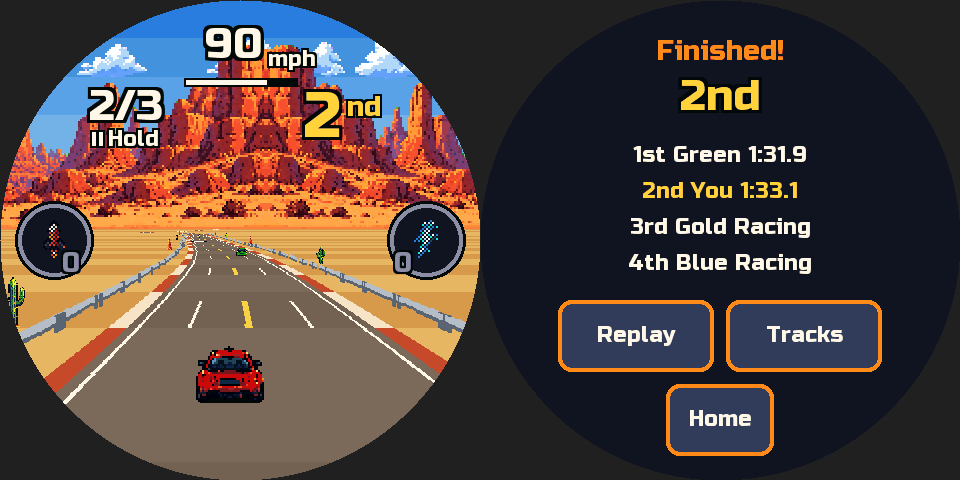
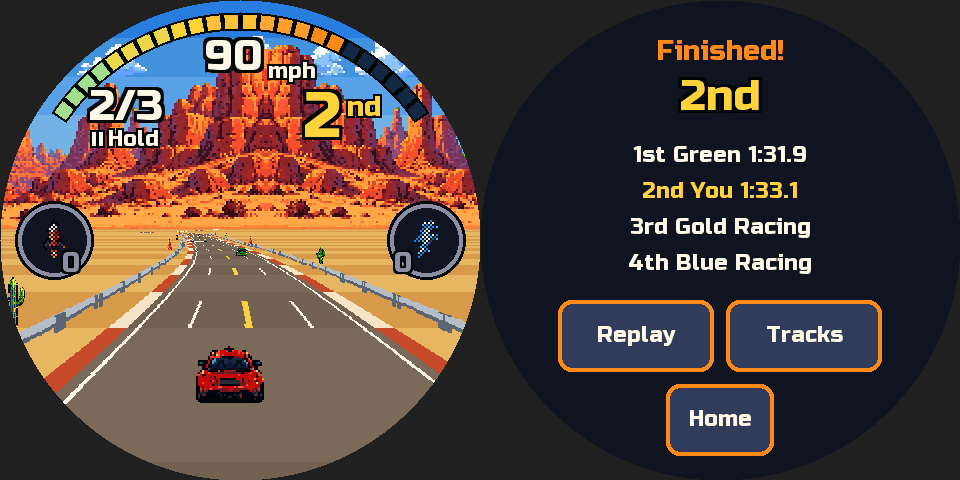
feat(porthole): Rally speed as an arc along the top rim
24 slots light left to right (green to gold to orange to top speed, cyan in
the boost range), red-orange while a trap holds the car back; mph digits
sit under the arc. Each arc pixel slot is computed once into heap scratch.

diff --git a/apps/porthole/games/racing/render.cpp b/apps/porthole/games/racing/render.cpp
@@ -18,6 +18,7 @@ namespace {
 // Rally's own interface colors: a navy-black plate, white and gold numerals with a black outline, a race-orange accent.
 constexpr uint32_t INK = 0x141623, PLATE = 0x1F2438, PLATE_HI = 0x343C5C, RIM = 0x07080C, CREAM = 0xFFF6E4;
 constexpr uint32_t DIM = 0x8A8FA3, ORANGE = 0xFF8A1E, CYAN = 0x45E3FF, GOLD = 0xFFD23A, GREEN = 0x7BE07B;
+constexpr uint32_t HELD = 0xFF5A36;   // the speed held back by a trap
 constexpr uint32_t RING = 0xDCE2EC, STEEL = 0xB4BCC6, STEEL_DARK = 0x5C6470;
 constexpr float MPH_AT_TOP = 90;
 constexpr int HORIZON = 228, CAR_ROW = 402, CAR_DEPTH = CAR_ROW - HORIZON, PIC_SCALE = 2;
@@ -123,13 +124,20 @@ void skyline(int track, int bottom, int offset) {
 // at the first race frame, never at static init: internal RAM stays free for the wireless update's screen and TLS.
 struct Thing { float z; const pic::Pic* p; float x, lift = 0; bool shadow = false; float size = 1; };   // size: drawn bigger than life
 constexpr int MAX_THINGS = 48;
+// The speed arc hugs the top rim: SEGMENTS slots across ARC_DEG either side of 12 o'clock, between ARC_IN and ARC_OUT.
+// Which slot each of its pixels belongs to (or its dark rim) is worked out once, so a frame only looks it up.
+constexpr int SEGMENTS = 24, ARC_IN = 210, ARC_OUT = 228, ARC_MAX = 9000, ARC_RIM = 255;
+constexpr float ARC_DEG = 56;
 struct Scratch {
   int16_t center[ROWS], half[ROWS];   // road center and half-width for each row below the horizon
   float z[ROWS];
   Thing things[MAX_THINGS];
   int n;
+  uint32_t arc[ARC_MAX];              // panel offset << 8 | slot (ARC_RIM: the dark edge and the gaps)
+  int arcCount;
 };
 Scratch* sc = nullptr;
+void buildArc();   // with the HUD, below
 struct Camera { const Race* r; int track; float dist, x; };
 float rowZ(int y) { return DEPTH_K / (float)(y - HORIZON); }
 void project(const Camera& cam) {   // bottom row up: the bend accumulates with distance
@@ -266,7 +274,7 @@ void player(const Camera& cam, float steer, uint32_t ms) {
   pic(s, x - s.w, CAR_ROW - lift - 2 * s.h, PIC_SCALE);
 }
 void scene(const Race& r, int track, float steer, uint32_t ms) {
-  if (!sc) sc = new (std::nothrow) Scratch();
+  if (!sc) { sc = new (std::nothrow) Scratch(); if (sc) buildArc(); }
   if (!sc) return;
   const Car& p = r.car[PLAYER];
   Camera cam{&r, track, p.dist - CAMERA_BACK, p.x * 0.7f};
@@ -301,21 +309,46 @@ void action(const ui::Box& b, int item, int count, bool lit, bool full) {
   outlined(cx + inward * 20 - 12, cy + 12, n, 3, count ? CREAM : DIM);   // the count, toward the middle
   if (full) { const int w = textWidth("Full", 2); outlined(cx + inward * 8 - w / 2, cy - 70, "Full", 2, GOLD); }
 }
-// The speed, top center: big digits and a bar that is cyan while boosting and orange while held back (a slow patch,
-// off the road, or the moment after a hit), so a kid sees what a trap costs. 1.0 (dry-road top speed) reads 90 mph.
+void buildArc() {
+  sc->arcCount = 0;
+  for (int y = 240 - ARC_OUT; y < 240; y++)
+    for (int x = 0; x < 480; x++) {
+      const float dx = (float)(x - 240), dy = (float)(240 - y), r = sqrtf(dx * dx + dy * dy);
+      const float deg = atan2f(dx, dy) * (180 / 3.14159265f);
+      if (r < ARC_IN || r > ARC_OUT || fabsf(deg) > ARC_DEG || sc->arcCount >= ARC_MAX) continue;
+      const float at = (deg + ARC_DEG) / (2 * ARC_DEG) * SEGMENTS, inSlot = at - floorf(at);
+      const bool edge = r < ARC_IN + 2 || r > ARC_OUT - 2 || inSlot < 0.12f || inSlot > 0.88f;
+      sc->arc[sc->arcCount++] = (uint32_t)(y * 480 + x) << 8 | (edge ? ARC_RIM : (uint32_t)at);
+    }
+}
+// Slot colors: the road range runs green to gold to orange; the slots past top speed are the boost's cyan.
+uint16_t slotColor(int i) {
+  constexpr int ROAD = (int)(SEGMENTS / BOOST_CAP + 0.5f);
+  if (i >= ROAD) return rgb888_to_565(CYAN);
+  const float t = (float)i / (ROAD - 1);
+  const uint32_t a = t < 0.5f ? GREEN : GOLD, b = t < 0.5f ? GOLD : ORANGE;
+  const float u = t < 0.5f ? t * 2 : t * 2 - 1;
+  auto mix = [&](int s) { return (uint32_t)((a >> s & 255) * (1 - u) + (b >> s & 255) * u) << s; };
+  return rgb888_to_565(mix(16) | mix(8) | mix(0));
+}
+// The speed: an arc of slots along the top rim lighting left to right, and big digits under it. Held back (a slow
+// patch, off the road, the moment after a hit) the lit slots and digits turn red-orange; boosting, the digits are
+// cyan as the boost slots fill. 1.0 (dry-road top speed) reads 90 mph.
 void speedo(const Race& r) {
   const Car& p = r.car[PLAYER];
   bool ice = false;
   const bool slowed = p.protectMs || (!airborne(p) && terrainCap(*r.track, p.dist, p.x, &ice) < 1);
-  const uint32_t color = p.boostMs ? CYAN : slowed ? ORANGE : CREAM;
+  const int lit = (int)lroundf(fminf(p.speed / BOOST_CAP, 1) * SEGMENTS);
+  const uint16_t rim = rgb888_to_565(RIM), off = rgb888_to_565(PLATE), held = rgb888_to_565(HELD);
+  for (int i = 0; i < sc->arcCount; i++) {
+    const uint32_t slot = sc->arc[i] & 255;
+    gfx565::fb[sc->arc[i] >> 8] = slot == ARC_RIM ? rim : (int)slot >= lit ? off : slowed ? held : slotColor((int)slot);
+  }
+  const uint32_t color = p.boostMs ? CYAN : slowed ? HELD : CREAM;
   char n[8];
   snprintf(n, sizeof n, "%d", (int)lroundf(p.speed * MPH_AT_TOP));
-  const int w = textWidth(n, 5), x = 262 - w;
-  outlined(x, 28, n, 5, color);
-  outlined(268, 50, "mph", 2, color);
-  const int bw = (int)(110 * fminf(p.speed / BOOST_CAP, 1));
-  fill(184, 78, 114, 9, RIM);
-  fill(186, 80, bw, 5, color);
+  outlined(262 - textWidth(n, 5), 40, n, 5, color);
+  outlined(268, 62, "mph", 2, color);
 }
 void hud(const View& v) {
   const Race& r = *v.race;

diff --git a/apps/porthole/games/racing/AGENTS.md b/apps/porthole/games/racing/AGENTS.md
@@ -17,9 +17,11 @@ tracks, platform contract, and the two approved reference boards the look follow
   2026-10-31: pausing at 49 degrees caught kids mid-race). Only a nearly flat or implausible pose for 300 ms stops it
   on the Pause page ("Hold like a wheel"); Resume works once it is held again.
 - Countdown 3-2-1-GO: nothing moves and no press spends a charge before GO. The car accelerates by itself.
-- The speed sits top center in mph (dry-road top speed reads 90, a boost about 121) over a bar that is cyan while
-  boosting and orange while a slow patch, off-road or a hit holds the car back, so a kid sees what a trap costs (a user
-  decision of 2026-10-31; the design brief had no speed readout).
+- The speed: an arc of 24 slots along the top rim lights left to right (green to gold to orange up to the dry-road top
+  speed, cyan in the boost range past it), with mph digits under it (top speed reads 90, a boost about 121). Held back
+  by a slow patch, off-road or a hit, the lit slots and digits turn red-orange, so a kid sees what a trap costs (a user
+  decision of 2026-10-31, after round-watch arc gauges and arcade tachometers; the design brief had no speed readout).
+  The slot of every arc pixel is computed once into the heap scratch; a frame only looks it up.
 - Two drawn gameplay buttons, Rocket at 9 o'clock and Boost at 3 o'clock on the rim (moved off the road view at the
   user's request, 2026-10-31). Each shows its icon and a 0-3 count; spent buttons stay visible, dotted. One fresh
   press spends one charge; holding, dragging in from the road or a carried touch never fires. Boost: 1.35 speed cap

diff --git a/apps/porthole/docs/racing/blackbox/README.md b/apps/porthole/docs/racing/blackbox/README.md
@@ -218,11 +218,12 @@ Pacing lands on the 1.5-2 minute target (1:33 to 2:00). Laps take about 30-38 s,
 - `trace-night-run-final-race.jsonl` replayed in a fresh process on this final build reaches the same results page:
   1st, 1:46.8.
 
-## Speed readout, flat-only pause and Russo One text (2026-10-31)
+## Speed arc, flat-only pause and Russo One text (2026-10-31)
 
 - `trace-desert-canyon-full-race.jsonl` replayed in a fresh process on this build: the same race, 2nd in 1:33.1,
-  now with the mph readout over the lap and place and all text in Russo One (`12-speed-font-replay.png`).
+  now with the speed arc along the top rim, mph digits under it, and all text in Russo One (`12-speed-font-replay.png`).
 - Leaning the puck back 70 degrees mid-race keeps racing and steering; a hard turn past full lock keeps racing;
   lying flat still pauses with "Hold like a wheel" (`host/test_racing.cpp` `gripLost`, and checked with ordinary
   tilts in the emulator).
-- The readout went 45 to 90 mph while accelerating, cyan with a boost, orange at 50 mph off the road.
+- The arc filled left to right from 45 to 90 mph while accelerating; the digits went cyan with a boost; off the road
+  at 50 mph the lit slots and digits turned red-orange.
